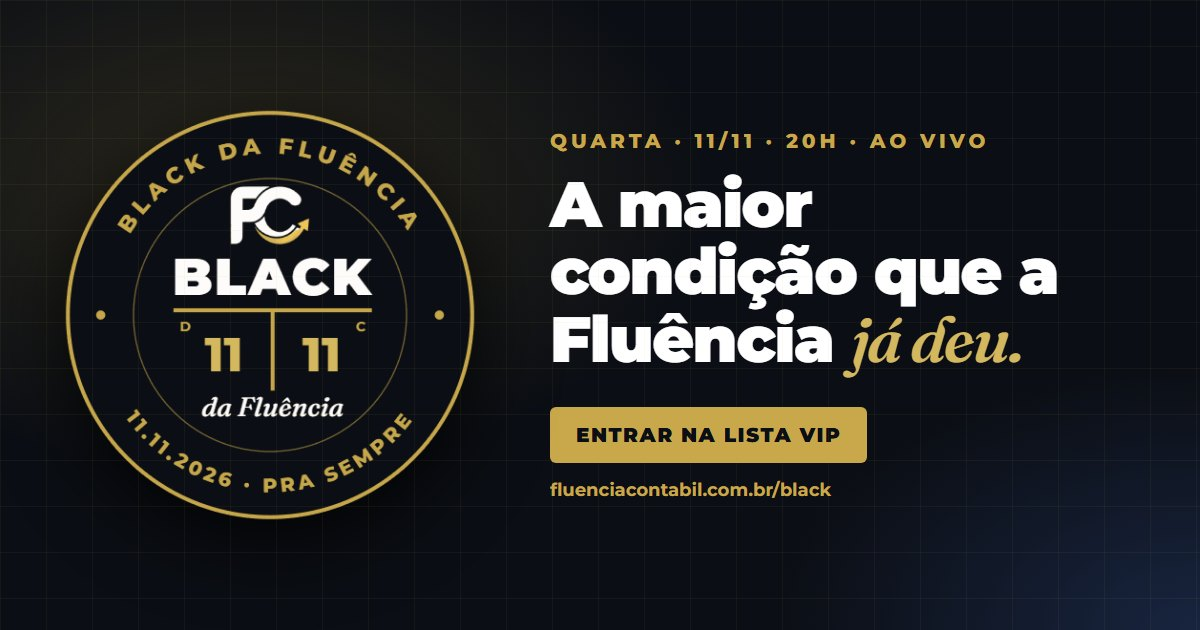
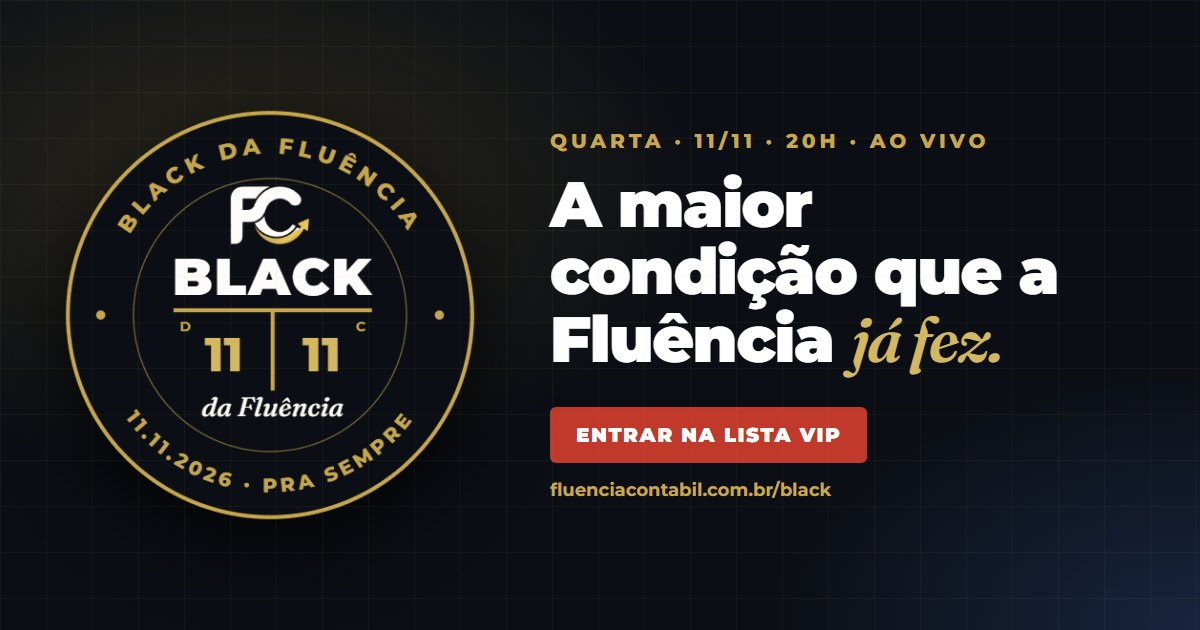
black: "já fez" no título e botões de ação em vermelho

Changed region(s): [[0.4317, 0.6333, 0.74, 0.754], [0.74, 0.4825, 0.8633, 0.6032]]

diff --git a/black.html b/black.html
@@ -46,7 +46,7 @@ j=d.createElement(s),dl=l!='dataLayer'?'&l='+l:'';j.async=true;j.src=
 
 <meta property="og:type" content="website">
 <meta property="og:title" content="Black da Fluência · 11/11, 20h">
-<meta property="og:description" content="Na live de 11/11 eu revelo a maior condição que a Fluência já deu. Entre na lista VIP e receba o link 10 minutos antes.">
+<meta property="og:description" content="Na live de 11/11 eu revelo a maior condição que a Fluência já fez. Entre na lista VIP e receba o link 10 minutos antes.">
 <meta property="og:url" content="https://fluenciacontabil.com.br/black">
 <meta property="og:image" content="https://fluenciacontabil.com.br/assets/black/black-og.jpg">
 <meta property="og:image:width" content="1200">
@@ -61,11 +61,12 @@ j=d.createElement(s),dl=l!='dataLayer'?'&l='+l:'';j.async=true;j.src=
 
 <style>
   /* Identidade da Black (plano v3): preto no fundo, dourado no destaque.
-     Texto sobre o preto só em branco ou dourado. Vermelho só no botão de
-     COMPRA — e esta página não vende, então não tem vermelho. */
+     Texto sobre o preto só em branco ou dourado. Vermelho só no botão de ação
+     (decisão do Vinícius em 20/10: o "Entrar na lista VIP" também é vermelho). */
   :root{
     --preto:#0B0E14; --azul:#1B2A4A; --dourado:#C8A84B; --dourado-claro:#D4B860;
     --cream:#FBF6E9; --branco:#fff; --branco-2:#ffffffc7; --linha:#c8a84b38;
+    --vermelho:#C0392B; --vermelho-hover:#A93226;
   }
   *,*::before,*::after{margin:0;padding:0;box-sizing:border-box}
   html{scroll-behavior:smooth;scroll-padding-top:84px}
@@ -91,9 +92,9 @@ j=d.createElement(s),dl=l!='dataLayer'?'&l='+l:'';j.async=true;j.src=
   .nav .marca{display:flex;align-items:center;gap:12px;text-decoration:none}
   .nav .marca img{width:46px;height:46px}
   .nav .marca span{font-size:12px;font-weight:800;letter-spacing:2px;text-transform:uppercase;color:var(--dourado)}
-  .nav a.cta{padding:10px 18px;border:1.5px solid var(--dourado);border-radius:4px;color:var(--dourado);
+  .nav a.cta{padding:11px 20px;background:var(--vermelho);border-radius:4px;color:#fff;
     font-size:11px;font-weight:800;letter-spacing:.9px;text-transform:uppercase;text-decoration:none;white-space:nowrap}
-  .nav a.cta:hover{background:var(--dourado);color:var(--preto)}
+  .nav a.cta:hover{background:var(--vermelho-hover)}
 
   /* ---------- hero ---------- */
   .hero{position:relative;isolation:isolate;overflow:hidden;
@@ -132,10 +133,10 @@ j=d.createElement(s),dl=l!='dataLayer'?'&l='+l:'';j.async=true;j.src=
   .aceite input{flex:none;width:20px;height:20px;margin-top:2px;accent-color:var(--dourado);cursor:pointer}
   .aceite small{display:block;font-size:12.5px;font-weight:400;color:var(--branco-2);margin-top:3px}
   .btn{display:inline-flex;align-items:center;justify-content:center;gap:10px;min-height:56px;width:100%;
-    padding:15px 26px;background:var(--dourado);color:var(--preto);border:0;border-radius:6px;
+    padding:15px 26px;background:var(--vermelho);color:#fff;border:0;border-radius:6px;
     font:inherit;font-size:14px;font-weight:900;letter-spacing:.07em;text-transform:uppercase;text-decoration:none;
-    cursor:pointer;box-shadow:0 12px 30px #c8a84b33;transition:background .2s,transform .2s}
-  .btn:hover{background:var(--dourado-claro);transform:translateY(-1px)}
+    cursor:pointer;box-shadow:0 12px 30px #c0392b47;transition:background .2s,transform .2s}
+  .btn:hover{background:var(--vermelho-hover);transform:translateY(-1px)}
   .btn:disabled{opacity:.7;cursor:progress;transform:none}
   .btn-contorno{background:transparent;color:var(--dourado);border:1.5px solid var(--dourado);box-shadow:none}
   .btn-contorno:hover{background:#c8a84b1f}
@@ -230,7 +231,7 @@ height="0" width="0" style="display:none;visibility:hidden"></iframe></noscript>
       <img class="selo-hero" src="assets/email/logo-black-selo.png" width="440" height="440"
            alt="Selo da Black da Fluência: 11.11.2026, pra sempre">
       <div class="quando"><span>Quarta, 11 de novembro</span><i></i><span>20h</span><i></i><span>Ao vivo no YouTube</span></div>
-      <h1>11/11, 20h. A maior condição que a Fluência <span class="it">já deu.</span></h1>
+      <h1>11/11, 20h. A maior condição que a Fluência <span class="it">já fez.</span></h1>
       <p class="sub">Na live de 11 de novembro eu revelo a condição da Black da Fluência, e ela vale
         por uma noite. Quem está na lista VIP recebe o link <strong>10 minutos antes de todo mundo</strong>
         e fica sabendo primeiro quando a condição abrir.</p>
